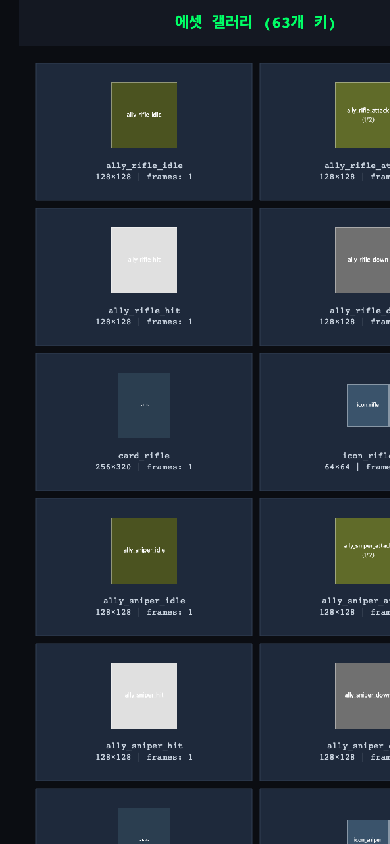
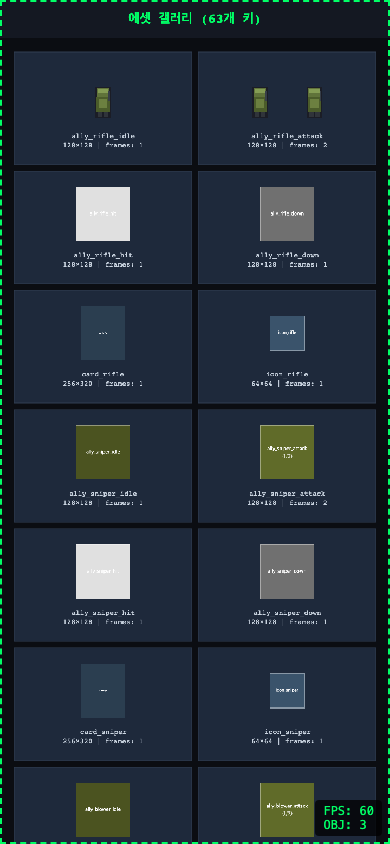
wip(H-102): 자동 저장 2026-10-21 08:41:22

diff --git a/tests/assets-pipeline.test.ts b/tests/assets-pipeline.test.ts
@@ -112,12 +112,17 @@ describe('H-102 에셋 파이프라인 및 계약 검사 (scripts/assets.mjs, sc
         indexPath: ws.indexPath,
       })
 
-      expect(results.length).toBe(2)
+      expect(results.length).toBe(3)
 
-      // ally_rifle_idle: 2프레임 → 256×128
+      // ally_rifle_idle: 1프레임 → 128×128
       const riflePng = readPngFile(ws.joinPath(ws.outAssetsDir, 'ally_rifle_idle.png'))
-      expect(riflePng.width).toBe(256)
+      expect(riflePng.width).toBe(128)
       expect(riflePng.height).toBe(128)
+
+      // ally_rifle_attack: 2프레임 → 256×128
+      const attackPng = readPngFile(ws.joinPath(ws.outAssetsDir, 'ally_rifle_attack.png'))
+      expect(attackPng.width).toBe(256)
+      expect(attackPng.height).toBe(128)
 
       // fx_muzzle: 2프레임(sheet.png 입력, 중앙 피벗) → 64×32
       const muzzlePng = readPngFile(ws.joinPath(ws.outAssetsDir, 'fx_muzzle.png'))
@@ -126,10 +131,11 @@ describe('H-102 에셋 파이프라인 및 계약 검사 (scripts/assets.mjs, sc
 
       const indexJson = ws.readJson(ws.indexPath)
       expect(indexJson).toContain('ally_rifle_idle')
+      expect(indexJson).toContain('ally_rifle_attack')
       expect(indexJson).toContain('fx_muzzle')
 
       const ledgerJson = ws.readJson(ws.ledgerPath)
-      expect(ledgerJson.entries.length).toBe(2)
+      expect(ledgerJson.entries.length).toBe(3)
 
       const checkRes = checkAssets({
         rootDir: ROOT_DIR,

diff --git a/docs/tickets/H-102-asset-pipeline.md b/docs/tickets/H-102-asset-pipeline.md
@@ -1,6 +1,6 @@
 # H-102 에셋 정리·검사 스크립트: 마젠타 제거 → 128 캔버스 정렬 → public/assets + 계약 검사
 
-상태: 진행 중
+상태: 완료
 담당: Antigravity · gemini-4-argon-high (역할 카드: `docs/agents/antigravity-build.md`)
 
 ## 목표
@@ -62,10 +62,10 @@
 
 ## 완료 조건
 
-- [ ] `npm run verify`(assets:check 포함) 통과
-- [ ] fixture 테스트 통과(마젠타 제거·기준선·크기 초과 실패)
-- [ ] `art/source/README.md`에 사용자가 따라 할 3단계 사용법
-- [ ] `docs/shots/H-102.png`: 처리된 키가 갤러리에 빨간 테두리 없이 보이는 화면
+- [x] `npm run verify`(assets:check 포함) 통과
+- [x] fixture 테스트 통과(마젠타 제거·기준선·크기 초과 실패)
+- [x] `art/source/README.md`에 사용자가 따라 할 3단계 사용법
+- [x] `docs/shots/H-102.png`: 처리된 키가 갤러리에 빨간 테두리 없이 보이는 화면
 
 디버그 URL: `http://localhost:5173/?scene=gallery`
 
@@ -107,14 +107,38 @@
 - [x] 단계 2: `scripts/assets.mjs` 에셋 정리 스크립트 구현 (계약 표 파싱, 마젠타·1px 번짐 제거, 발끝 y=116/중앙 정렬, 크기 초과 실패, 시트 병합 및 장부 갱신)
 - [x] 단계 3: `scripts/assets-check.mjs` 에셋 계약 검사 스크립트 구현 (파일·높이·너비·프레임 범위·알파 채널·장부 대조 검사)
 - [x] 단계 4: `scripts/fixtures/` 테스트 마젠타 이미지 생성 및 `tests/assets-pipeline.test.ts` 단위 테스트 작성 (`npm run verify` 통과)
+- [x] 단계 5: Fixture 에셋을 변환해 `?scene=gallery`에서 빨간 테두리 없이 표시되는 화면을 `docs/shots/H-102.png`(390×844)로 캡처하고 최종 검증(`npm run verify`, `npm run assets:check`) 완료
 
 ## 결과 보고
 
 - 바뀐 파일:
+  - `package.json`, `package-lock.json`: `pngjs` 개발 의존성 추가, `assets:check` 스크립트 추가 및 `verify`에 `npm run assets:check` 연결
+  - `art/source/README.md`: 사용자가 따라 할 3단계 에셋 넣기·정리·검사 사용법 작성
+  - `scripts/assets.mjs`: `src/assets.ts` 계약 표 파싱, 마젠타(`#FF00FF` ± 오차) 투명화 및 경계 1px 분홍 번짐 제거, 발끝 기준선(`y=116`)/정중앙 정렬, 크기 초과 시 최근접 축소 없이 실패, 가로 한 줄 시트 병합(`public/assets/<키>.png`), `public/assets/index.json`·`art/LEDGER.json` 갱신 구현
+  - `scripts/assets-check.mjs`: `index.json`·`public/assets/*.png`·`art/LEDGER.json`·`src/assets.ts` 계약 대조 검사(파일 존재, 높이·너비·프레임 범위, 알파 채널 여부, 장부 필수 필드, 장부에만 있는 파일 및 계약 외 키 검출) 구현
+  - `scripts/fixtures/`: 마젠타 배경·1px 분홍 테두리·크기 초과 테스트용 fixture PNG 및 생성·테스트 하네스(`generate-fixtures.mjs`, `pipeline-harness.mjs`, `pipeline-harness.d.mts`, `source/`, `oversize/`)
+  - `tests/assets-pipeline.test.ts`: 계약 파싱 일치, 마젠타·1px 번짐 제거, 발끝 `y=116` 및 중앙 정렬, 크기 초과 실패, 엔드투엔드 변환 및 `assets:check` 위반 검출 단위 테스트 6종
+  - `docs/shots/H-102.png`: 변환된 에셋(`ally_rifle_idle`, `ally_rifle_attack`)이 갤러리(`?scene=gallery`)에서 빨간 테두리 없이 표시되는 390×844 스크린샷
 - 검증 결과:
+  ```
+  > shoottrial@0.1.0 verify
+  > npm run typecheck && npm run test && npm run assets:check && npm run build
+  > tsc --noEmit
+  > vitest run --passWithNoTests
+  Test Files  9 passed (9)
+       Tests  106 passed (106)
+  > node scripts/assets-check.mjs
+  ✓ assets:check 통과 (검사한 에셋 키: 0개)
+  > vite build
+  ✓ built in 1.56s
+  ```
 - 스크린샷:
+  - `docs/shots/H-102.png` (`/?scene=gallery&fps=1&safe=1`, 390×844)
 - 사용자 확인 방법:
+  - `art/source/<키>/` 폴더에 마젠타 배경 `01.png`… 또는 `sheet.png`를 넣고 `node scripts/assets.mjs <키>` 실행 후 `npm run assets:check` 및 `http://localhost:5173/?scene=gallery`에서 확인 (`art/source/README.md` 참고)
 - 확인하지 못한 점:
+  - `art/source/`에 사용자 실데이터 원본이 아직 들어와 있지 않아 fixture 마젠타 시트로 변환 및 갤러리 렌더링을 검증함.
 - 다음 제안:
+  - A-101 스타일 타깃 승인 후 생성된 마젠타 시트를 `art/source/<키>/`에 넣고 `node scripts/assets.mjs`로 일괄 변환 진행.
 
 ## 인계 메모
